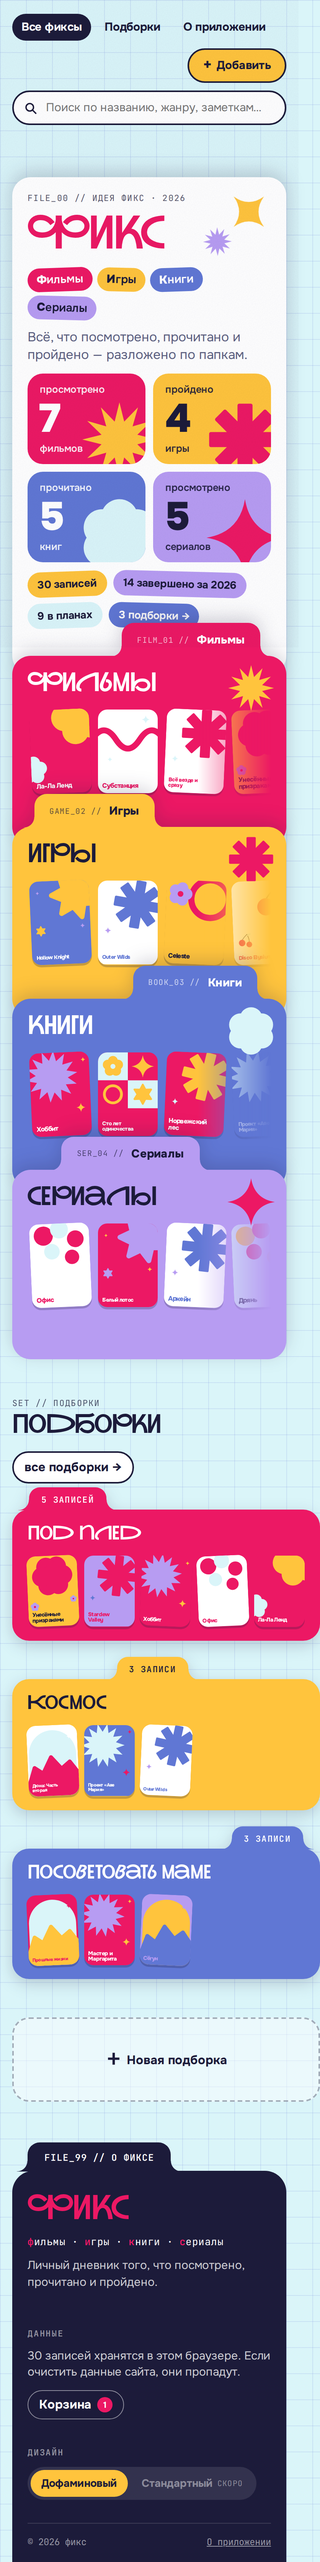
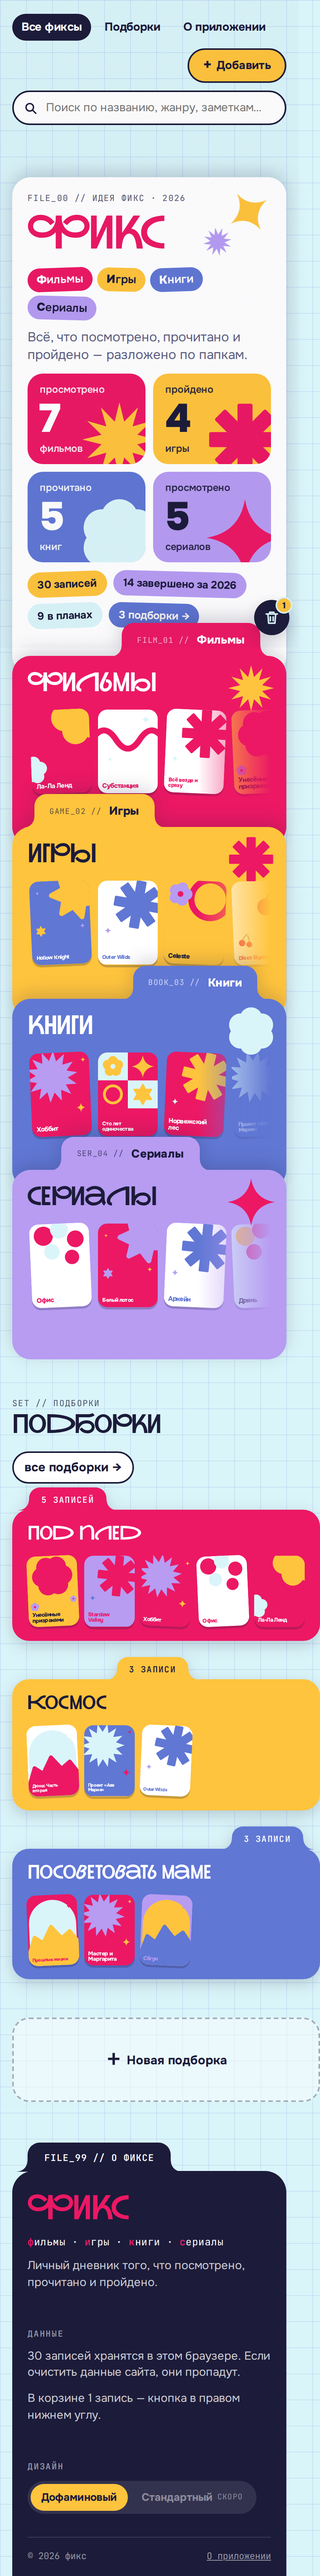
Корзина — кнопка-иконка в правом нижнем углу
Закреплена в правой полосе, куда не заходят ни контент, ни футер;
цвета инвертированы к странице, есть счётчик. На телефоне кнопка
поднимается над футером. Из футера корзина убрана.

Claude-Session: https://claude.ai/code/session_01PDBpM1BjsubR5k6YmRK1Ea

diff --git a/css/styles.css b/css/styles.css
@@ -27,6 +27,7 @@
   --r: 14px;          /* радиус вогнутых «плечиков» язычка */
   --tab-w: 50px;      /* ширина боковых язычков папок */
   --gutter: 28px;
+  --lane: calc(var(--gutter) + var(--tab-w)); /* правая полоса: язычки папок и кнопка корзины */
 
   /* Заголовки — Nauryz Red Keds (файл в fonts/). Пока он не загрузился, браузер берёт Onest. */
   --display: 'NauryzRedKeds', 'Onest', system-ui, sans-serif;
@@ -820,7 +821,7 @@ body[data-view="collection"] .mainnav a.is-active { background: var(--page-fi, v
 
 
 /* ============ Полка подборок на главной ============ */
-.home-collections { padding: 10px var(--gutter) 60px; }
+.home-collections { padding: 10px var(--lane) 60px var(--gutter); }
 .home-collections-head { display: flex; align-items: flex-end; justify-content: space-between; gap: 16px; margin-bottom: 8px; }
 .home-collections h2 { margin: 6px 0 0; font-size: clamp(34px, 3.4vw, 52px); line-height: 1; letter-spacing: -.02em; color: var(--ink); }
 .home-collections-all { font-weight: 700; color: var(--ink); text-decoration: none; padding: 8px 14px 9px; border: 2px solid var(--ink); border-radius: 999px; background: var(--cream); white-space: nowrap; }
@@ -838,8 +839,33 @@ body[data-view="collection"] .mainnav a.is-active { background: var(--page-fi, v
 .pack-new span { font-size: 40px; line-height: 1; font-weight: 400; }
 .pack-new:hover { background: var(--cream); border-color: var(--ink); }
 
+/* ============ Кнопка корзины ============ */
+/* Живёт в правой полосе (--lane), куда контент не заходит; цвета — наоборот
+   к странице: фон кнопки — цвет текста страницы, иконка — цвет фона. */
+.trash-fab {
+  position: fixed; right: 16px; bottom: 16px; z-index: 40;
+  width: 50px; height: 50px;
+  display: grid; place-items: center;
+  border-radius: 50%;
+  background: var(--page-fi, var(--ink));
+  color: var(--page, var(--cyan));
+  box-shadow: 0 6px 18px var(--shadow);
+  transition: transform .2s cubic-bezier(.3, 1.4, .5, 1), background .45s, color .45s;
+}
+.trash-fab svg { width: 22px; height: 22px; fill: none; stroke: currentColor; stroke-width: 2.2; stroke-linecap: round; stroke-linejoin: round; }
+.trash-fab:hover { transform: rotate(-10deg) scale(1.08); }
+.trash-fab.is-active { box-shadow: 0 0 0 3px var(--page, var(--cyan)), 0 0 0 5px var(--page-fi, var(--ink)); }
+.trash-fab-count {
+  position: absolute; top: -4px; right: -4px;
+  min-width: 22px; height: 22px; padding: 0 6px;
+  border-radius: 999px; border: 2px solid var(--page, var(--cyan));
+  background: var(--sun); color: var(--ink);
+  font: 800 11px/18px var(--font); text-align: center;
+}
+body.has-modal .trash-fab { display: none; }
+
 /* ============ Футер: последний лист картотеки ============ */
-.site-footer { padding: 70px var(--gutter) 0; }
+.site-footer { padding: 70px var(--lane) 0 var(--gutter); }
 .footer-sheet {
   --tc: var(--ink);
   position: relative;
@@ -863,9 +889,6 @@ body[data-view="collection"] .mainnav a.is-active { background: var(--page-fi, v
 .footer-decode { font: 500 13px var(--mono) !important; letter-spacing: .02em; color: #fff !important; }
 .footer-decode b { color: var(--tomato); }
 .footer-label { margin: 6px 0 12px; font: 600 11px var(--mono); letter-spacing: .08em; text-transform: uppercase; color: rgba(255, 255, 255, .55); }
-.footer-link { display: inline-flex; align-items: center; gap: 8px; color: #fff; font-weight: 700; text-decoration: none; border: 1.5px solid rgba(255, 255, 255, .5); border-radius: 999px; padding: 7px 14px 8px; }
-.footer-link:hover { background: rgba(255, 255, 255, .12); border-color: #fff; }
-.footer-count { min-width: 20px; height: 20px; padding: 0 6px; border-radius: 999px; background: var(--tomato); font-size: 11px; line-height: 20px; text-align: center; }
 .design-switch { display: inline-flex; padding: 4px; gap: 4px; border-radius: 999px; background: rgba(255, 255, 255, .1); }
 .design-switch button {
   border: 0; border-radius: 999px; padding: 8px 14px 9px;
@@ -963,8 +986,9 @@ body[data-view="collection"] .mainnav a.is-active { background: var(--page-fi, v
   .packs { grid-template-columns: 1fr; }
   .pack-body { min-height: 150px; }
   .pack-new { min-height: 110px; flex-direction: row; }
-  .home-collections { padding-bottom: 30px; }
-  .site-footer { padding-top: 60px; }
+  .home-collections { padding: 10px var(--gutter) 30px; }
+  .trash-fab { right: 12px; width: 46px; height: 46px; }
+  .site-footer { padding: 60px var(--gutter) 0; }
   .footer-grid { grid-template-columns: 1fr; }
   .footer-sheet { padding: 30px 20px 18px; }
   .footer-tab { left: 20px; }

diff --git a/js/app.js b/js/app.js
@@ -60,6 +60,7 @@ window.Diary = window.Diary || {};
     renderCurrentTab({ full: true });
     updateNav();
     Diary.footer.render();
+    updateTrashFab();
     window.scrollTo(0, 0);
   }
 
@@ -81,6 +82,34 @@ window.Diary = window.Diary || {};
       a.classList.toggle('is-active', on);
       if (on) a.setAttribute('aria-current', 'page'); else a.removeAttribute('aria-current');
     });
+  }
+
+  // ---- кнопка корзины в правом нижнем углу ----
+  // Счётчик удалённых записей. На компьютере кнопка живёт в правой полосе,
+  // куда не заходит ни контент, ни футер. На телефоне полосы нет, поэтому,
+  // когда прокрутка доходит до футера, кнопка встаёт над ним.
+  var FAB_GAP = 16;
+  var narrow = window.matchMedia('(max-width: 860px)');
+
+  function updateTrashFab() {
+    var fab = document.getElementById('trashFab');
+    var count = repo.getTrashed().length;
+    var badge = fab.querySelector('.trash-fab-count');
+    badge.textContent = count > 99 ? '99+' : String(count);
+    badge.hidden = count === 0;
+    fab.setAttribute('aria-label', 'Корзина' + (count ? ', записей: ' + count : ''));
+    var here = state.currentTab === 'trash';
+    fab.classList.toggle('is-active', here);
+    if (here) fab.setAttribute('aria-current', 'page'); else fab.removeAttribute('aria-current');
+    positionTrashFab();
+  }
+
+  function positionTrashFab() {
+    var fab = document.getElementById('trashFab');
+    var footer = document.getElementById('siteFooter');
+    if (!narrow.matches) { fab.style.bottom = ''; return; }
+    var top = footer.getBoundingClientRect().top;
+    fab.style.bottom = Math.max(FAB_GAP, window.innerHeight - top + FAB_GAP) + 'px';
   }
 
   // ---- тост ----
@@ -178,6 +207,8 @@ window.Diary = window.Diary || {};
     });
 
     window.addEventListener('hashchange', function () { switchTab(tabFromHash()); });
+    window.addEventListener('scroll', positionTrashFab, { passive: true });
+    window.addEventListener('resize', positionTrashFab);
 
     // Клик по разделу, в котором уже находишься (например, «Подборки» изнутри
     // подборки), возвращает к началу раздела — адрес при этом не меняется.
@@ -193,6 +224,7 @@ window.Diary = window.Diary || {};
       if (!repo.isReady()) return;
       renderCurrentTab();
       Diary.footer.render();
+      updateTrashFab();
     });
 
     Promise.all([repo.init(), Diary.collectionsRepo.init()]).then(function () {

diff --git a/js/footer.js b/js/footer.js
@@ -1,5 +1,5 @@
 // Футер — последний лист картотеки: язычок сверху, название с расшифровкой,
-// где хранятся данные, корзина и переключатель дизайна (стандартный появится позже).
+// где хранятся данные и переключатель дизайна (стандартный появится позже).
 window.Diary = window.Diary || {};
 
 (function (Diary) {
@@ -30,7 +30,7 @@ window.Diary = window.Diary || {};
       '<div class="footer-col">' +
       '<h3 class="footer-label">Данные</h3>' +
       '<p>' + total + ' ' + utils.plural(total, ['запись', 'записи', 'записей']) + ' хранятся в этом браузере. Если очистить данные сайта, они пропадут.</p>' +
-      '<a class="footer-link" href="#/trash">Корзина' + (trashed ? '<span class="footer-count">' + trashed + '</span>' : '') + '</a>' +
+      (trashed ? '<p class="footer-muted">В корзине ' + trashed + ' ' + utils.plural(trashed, ['запись', 'записи', 'записей']) + ' — кнопка в правом нижнем углу.</p>' : '') +
       '</div>' +
 
       '<div class="footer-col">' +

diff --git a/index.html b/index.html
@@ -29,6 +29,11 @@
 
   <footer class="site-footer" id="siteFooter"></footer>
 
+  <a class="trash-fab" id="trashFab" href="#/trash" aria-label="Корзина">
+    <svg viewBox="0 0 24 24" aria-hidden="true"><path d="M4 7h16M9 7V4.5h6V7M6.5 7l1 13h9l1-13M10 11v5.5M14 11v5.5"/></svg>
+    <span class="trash-fab-count" hidden></span>
+  </a>
+
   <div class="modal" id="entryOverlay" role="dialog" aria-modal="true" hidden>
     <div class="modal-backdrop"></div>
     <article class="sheet-card" id="entryModal"></article>
